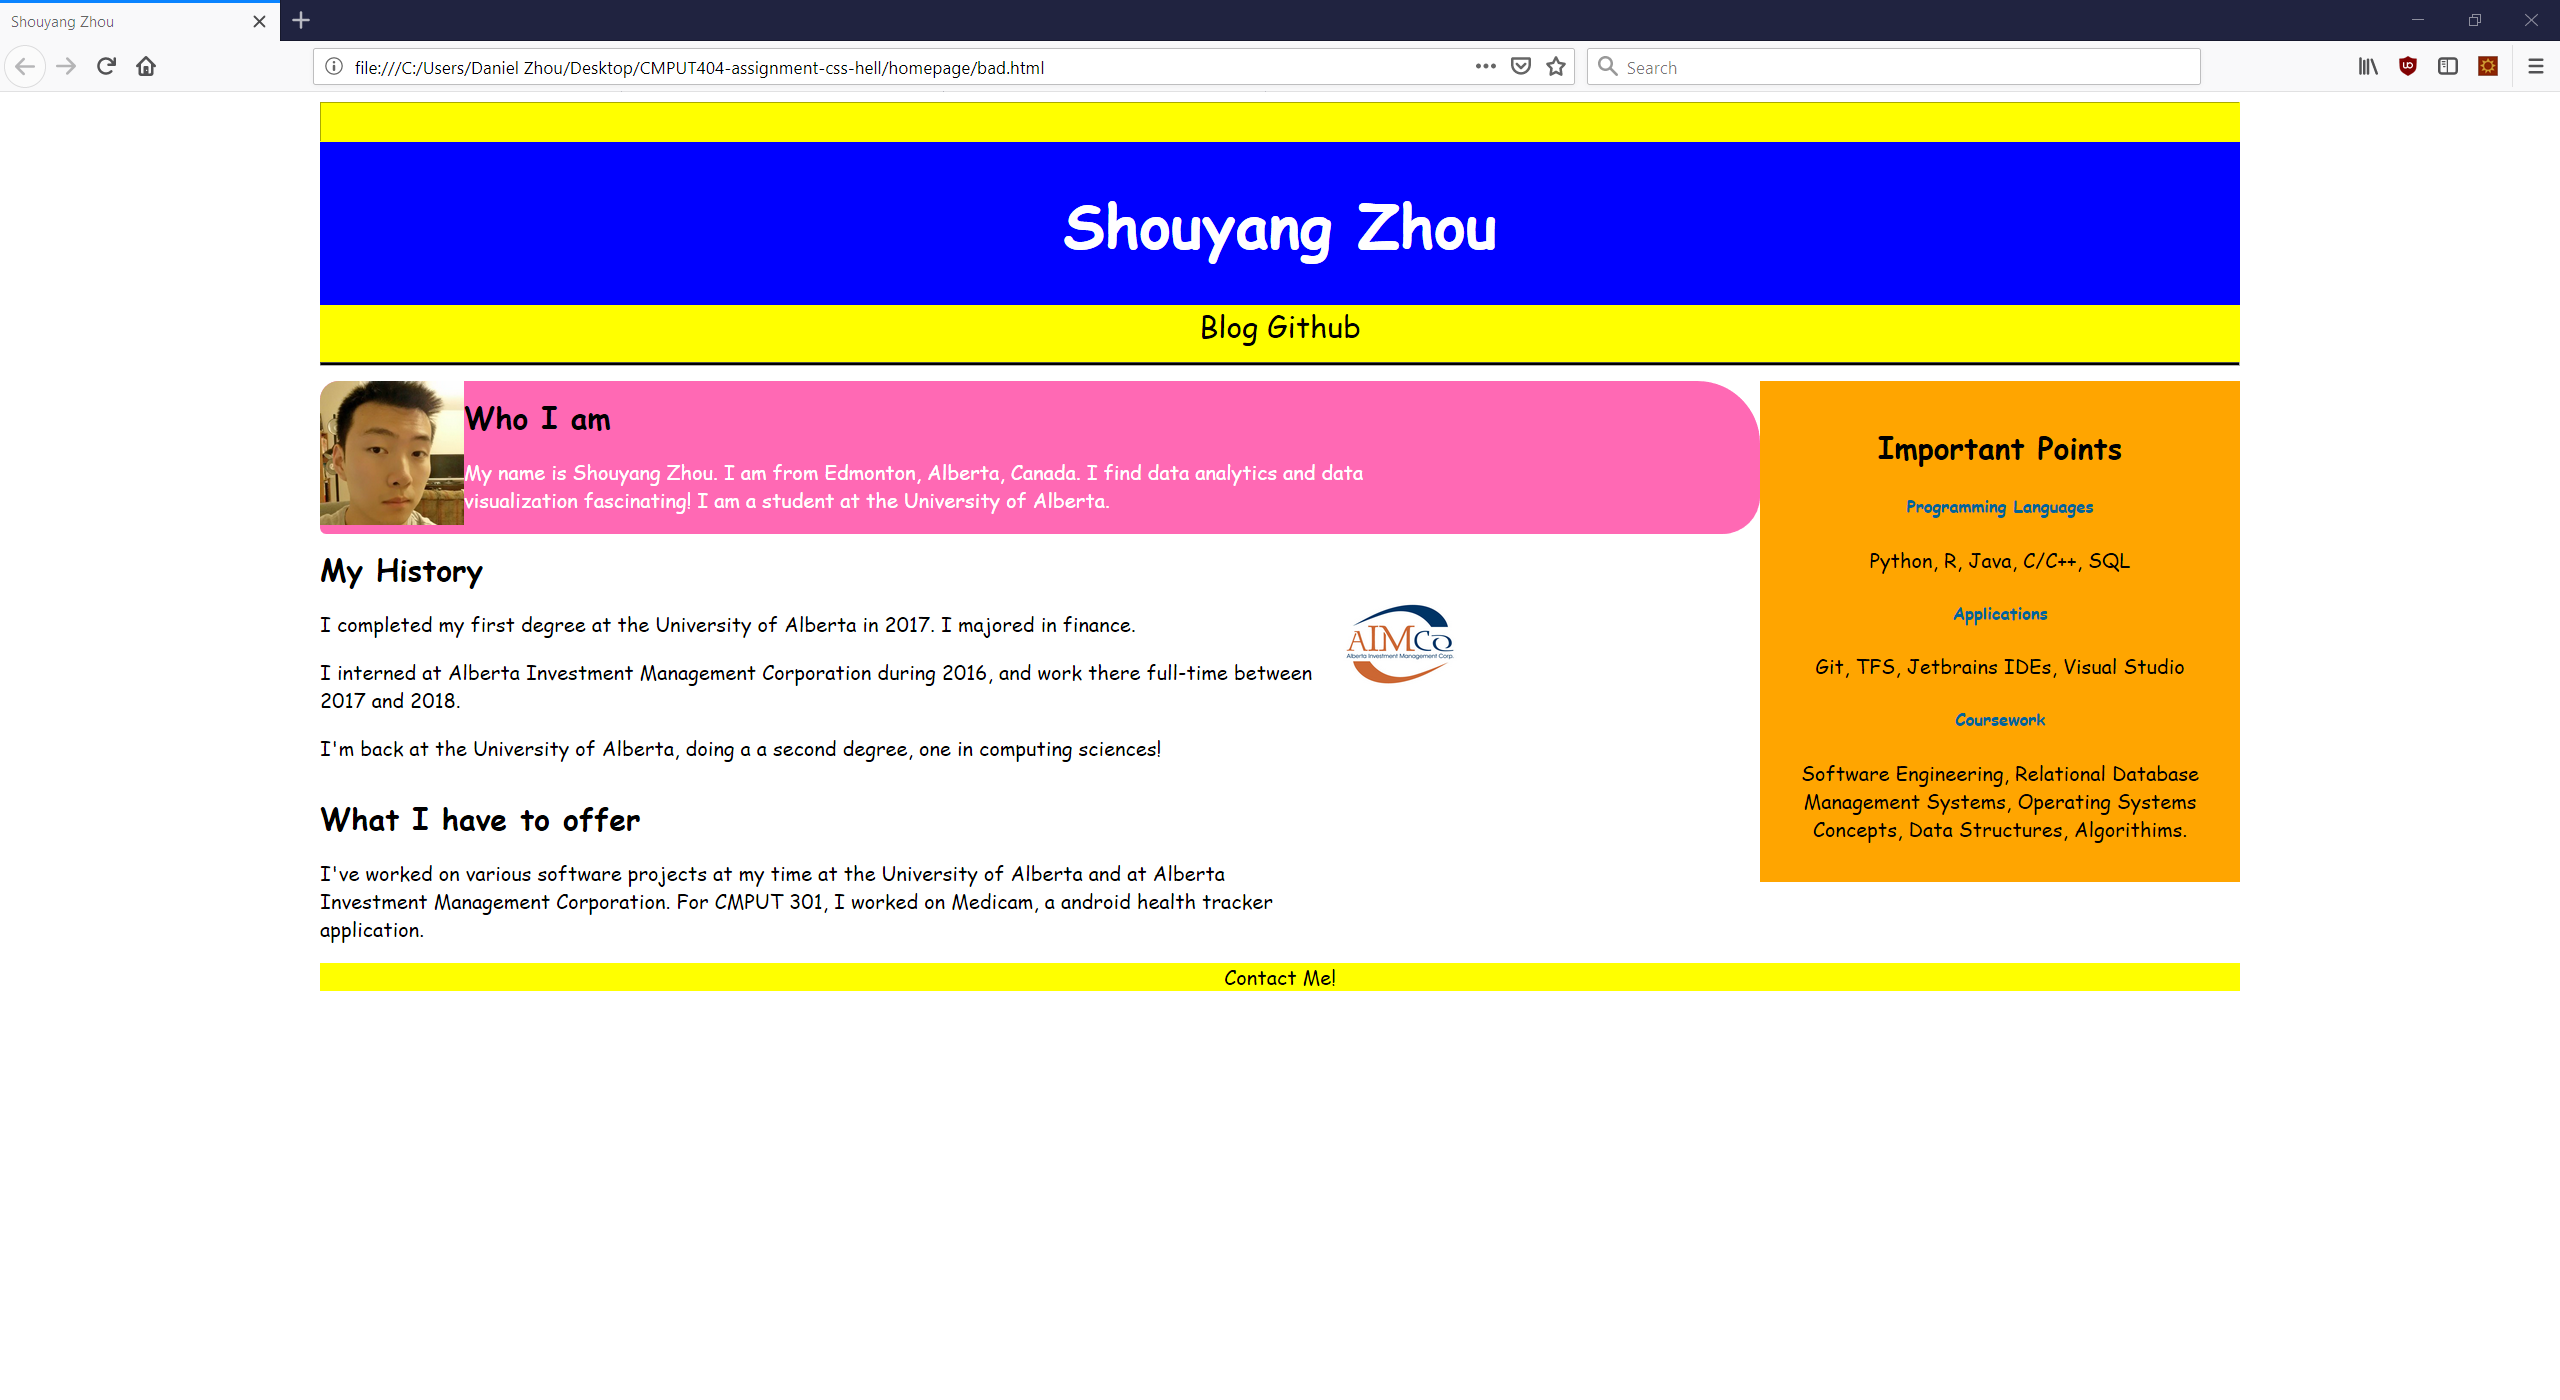
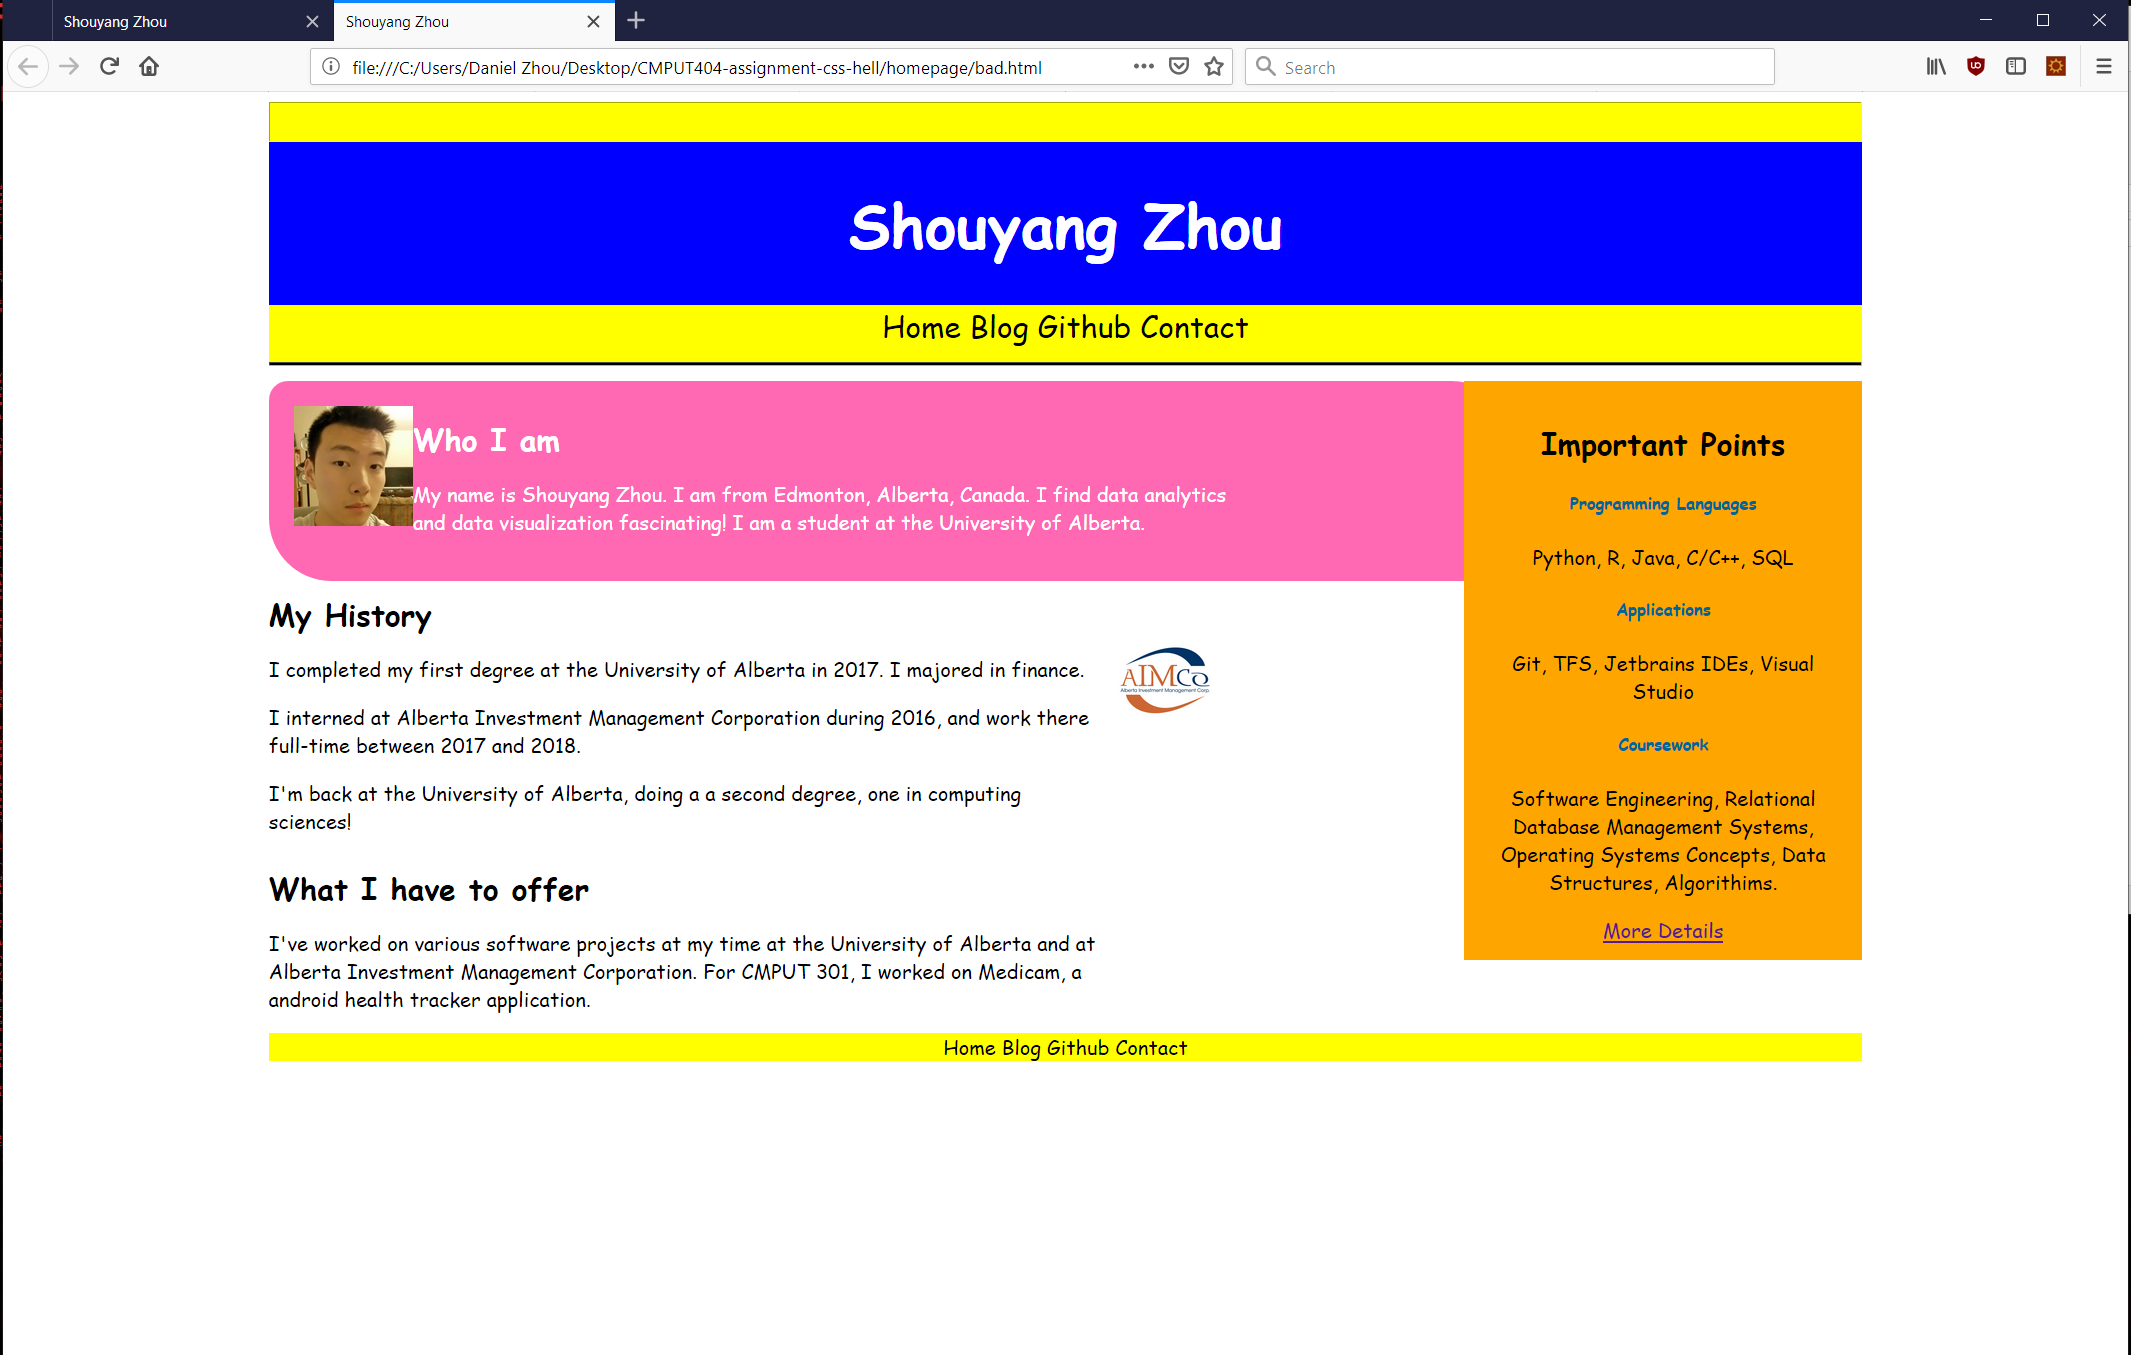
Finshed lab

Changed region(s): [[0.1239, 0.0, 0.8982, 0.8059], [0.8982, 0.0, 1.0, 1.0], [0.0, 0.0, 0.1239, 0.062]]

diff --git a/homepage/good.css b/homepage/good.css
@@ -1,5 +1,5 @@
 body {
-    width: 75%;
+    width: 65%;
     margin-left: auto;
     margin-right: auto;
 }
@@ -16,23 +16,46 @@ header hr
     background-color: #d3803e;
     border-color: #d3803e;
     height: 30px;
+    box-shadow: 0px 3px 2px 0px rgba(0,0,0,0.83);
 }
-
 
 header h1 {
     font-size: 300%;
     color: white;
+
+    text-shadow: 0px 0px 75px white;
 }
 
 header nav
 {
+    padding-top: 15px;
     font-size: 150%;
     background: #393939;
+
+    background: rgba(19,19,19,1);
+    background: -moz-linear-gradient(top, rgba(19,19,19,1) 0%, rgba(55,55,55,1) 64%, rgba(76,76,76,1) 100%);
+    background: -webkit-gradient(left top, left bottom, color-stop(0%, rgba(19,19,19,1)), color-stop(64%, rgba(55,55,55,1)), color-stop(100%, rgba(76,76,76,1)));
+    background: -webkit-linear-gradient(top, rgba(19,19,19,1) 0%, rgba(55,55,55,1) 64%, rgba(76,76,76,1) 100%);
+    background: -o-linear-gradient(top, rgba(19,19,19,1) 0%, rgba(55,55,55,1) 64%, rgba(76,76,76,1) 100%);
+    background: -ms-linear-gradient(top, rgba(19,19,19,1) 0%, rgba(55,55,55,1) 64%, rgba(76,76,76,1) 100%);
+    background: linear-gradient(to bottom, rgba(19,19,19,1) 0%, rgba(55,55,55,1) 64%, rgba(76,76,76,1) 100%);
+    filter: progid:DXImageTransform.Microsoft.gradient( startColorstr='#131313', endColorstr='#4c4c4c', GradientType=0 );
+    /* https://www.cssmatic.com/gradient-generator#' */
 }
 
 header nav a
 {
+    padding-left: 5px;
+    padding-right: 5px;
+
     color: white;
+    text-decoration: none;
+}
+
+header nav a:hover
+{
+
+    color: #0397f7;
     text-decoration: none;
 }
 
@@ -42,7 +65,16 @@ header nav hr
     background-color: #0397f7;
     border-color: #0397f7;
     height: 2px;
+
+    box-shadow: none;
 }
+
+header nav span 
+{
+    padding-left: 15px;
+    color: orange;
+}
+
 
 footer {
     text-align: center;
@@ -59,15 +91,21 @@ aside {
     background: #e7e7e7;
     float: left;
     width: 23%;
-}
-
-aside h2 {
     text-align: center;
+
 }
 
 aside h5 {
+    font-size: 115%;
     text-align: center;
     color: #006599;
+
+    margin-top: 0%;
+    margin-bottom: 0%;
+}
+
+aside p {
+    font-size: 90%;
 }
 
 div {
@@ -77,10 +115,19 @@ div {
 
 div h2
 {
-    margin-top: 1%;
+    margin-top: .25%;
     margin-bottom: 0%;
+
+    padding-left: 15px;
 }
 
+div p {
+    margin-top: 0.25%;
+    margin-bottom: 1%;
+
+    padding-left: 15px;
+
+}
 
 div div {
     float: left;

diff --git a/homepage/bad.html b/homepage/bad.html
@@ -11,22 +11,25 @@
 
         <header>
             <hr>
+            
             <h1>Shouyang Zhou</h1>
             <nav>
+                <a href="">Home</a>
                 <a href="http://shouyang.ca">Blog</a>
                 <a href="https://github.com/shouyang">Github</a>
+                <a href="mailto:notarealemail@ualberta.ca">Contact</a>
                 <hr>
             </nav>    
 
         </header>
 
         <main>
-            <div style="background-color:hotpink ;border-radius: 15px 50px 30px 5px">
-                <img src="images/profile.jpg" alt="Me!"/>
+            <div id="first">
+                <img id="shouyang" src="images/profile.jpg" alt="Me!"/>
                 <h2>Who I am</h2>
                 <div>
 
-                    <p style="color:white">
+                    <p>
                         My name is Shouyang Zhou. I am from Edmonton, Alberta, Canada. I find data analytics and data visualization fascinating! I am a student at the University of Alberta.
                     </p>        
                 </div>
@@ -49,7 +52,7 @@
                         I'm back at the University of Alberta, doing a a second degree, one in computing sciences!
                     </p>        
                 </div>
-                <img src="images/aimco.jpg" alt="Alberta Investment Management Corporation" />
+                <img id="aimco" src="images/aimco.jpg" alt="Alberta Investment Management Corporation" />
 
             </div>
 
@@ -81,10 +84,15 @@
             <p>
                 Software Engineering, Relational Database Management Systems, Operating Systems Concepts, Data Structures, Algorithims.
             </p>
+
+            <a href=""> More Details</a>
         </aside>
 
         <div class="footer">
-                <a href="home.html">Contact Me!</a>
+                <a href="">Home</a>
+                <a href="http://shouyang.ca">Blog</a>
+                <a href="https://github.com/shouyang">Github</a>
+                <a href="mailto:notarealemail@ualberta.ca">Contact</a>
         </div>
 
     </body>

diff --git a/homepage/good.html b/homepage/good.html
@@ -11,10 +11,13 @@
 
         <header>
             <hr>
+            
             <h1>Shouyang Zhou</h1>
             <nav>
+                <a href="">Home</a>
                 <a href="http://shouyang.ca">Blog</a>
                 <a href="https://github.com/shouyang">Github</a>
+                <a href="mailto:notarealemail@ualberta.ca">Contact</a>
                 <hr>
             </nav>    
 
@@ -22,7 +25,7 @@
 
         <main>
             <div>
-                <img src="images/profile.jpg" alt="Me!"/>
+                <img id="shouyang" src="images/profile.jpg" alt="Me!"/>
                 <h2>Who I am</h2>
                 <div>
 
@@ -49,7 +52,7 @@
                         I'm back at the University of Alberta, doing a a second degree, one in computing sciences!
                     </p>        
                 </div>
-                <img src="images/aimco.jpg" alt="Alberta Investment Management Corporation" />
+                <img id="aimco" src="images/aimco.jpg" alt="Alberta Investment Management Corporation" />
 
             </div>
 
@@ -81,10 +84,15 @@
             <p>
                 Software Engineering, Relational Database Management Systems, Operating Systems Concepts, Data Structures, Algorithims.
             </p>
+
+            <a href=""> More Details</a>
         </aside>
 
         <div class="footer">
-                <a href="home.html">Contact Me!</a>
+                <a href="">Home</a>
+                <a href="http://shouyang.ca">Blog</a>
+                <a href="https://github.com/shouyang">Github</a>
+                <a href="mailto:notarealemail@ualberta.ca">Contact</a>
         </div>
 
     </body>

diff --git a/homepage/bad.css b/homepage/bad.css
@@ -103,3 +103,12 @@ div img {
     color:black;
     text-decoration: none;
 }
+
+#first 
+{
+    border-radius: 15px 50px;
+    background: hotpink;
+    padding: 20px; 
+
+    color:white;
+}

diff --git a/README.md b/README.md
@@ -15,13 +15,23 @@ git clone https://github.com/abramhindle/CMPUT404-assignment-css-hell.git
 
 Part 1
 =================
-I styled the pages in the form of a cursive manuscript.
+I styled the pages in the form of an streotypical old-cursive manuscript as per Hindle's suggestion.
 
 Changes in "gutenberg/site.css":
+    * Changed paragraphs and other text elements to resemble old cursive writing.
+    * Changed headers to be title capped cursive writing.
     * Changed background color to a deeper brownish color called burlywood.
-    * Changed paragraphs, links, and headers to be a old timey cursive writing form
-    * Filtered images into greyscale.
+    * Filtered images into greyscale, the images for my texts were in sepia orginally.
+    * Styled images similarly to paragraphs.
 
+Note: The preferred font is a windows font called Garamond which is likely not on the lab machines.
+
+
+Part 2
+=================
+Please note that for the good version, I couldn't find a suitable wood texture akin to the one used in the oatmeal comic. 
+
+Note: The preferred font is a windows font called Comic Sans which is likely the exact font used in the comic and is likely also not on the lab machines.
 
 
 License/Copyright
